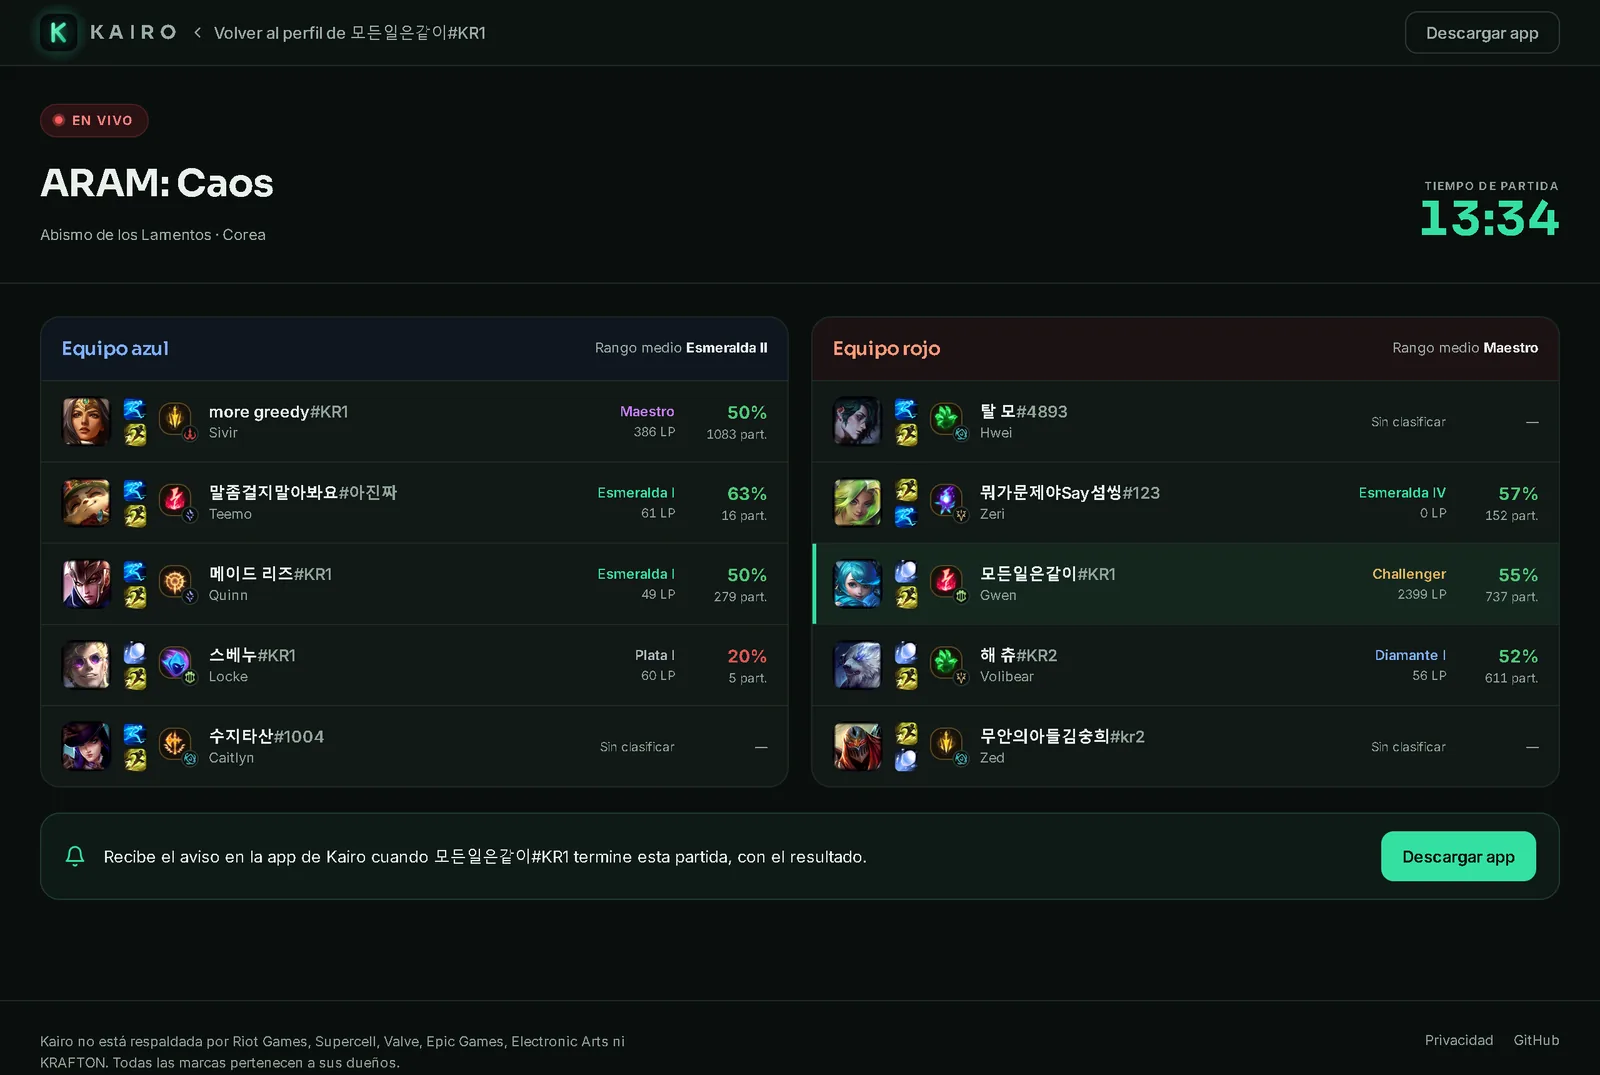
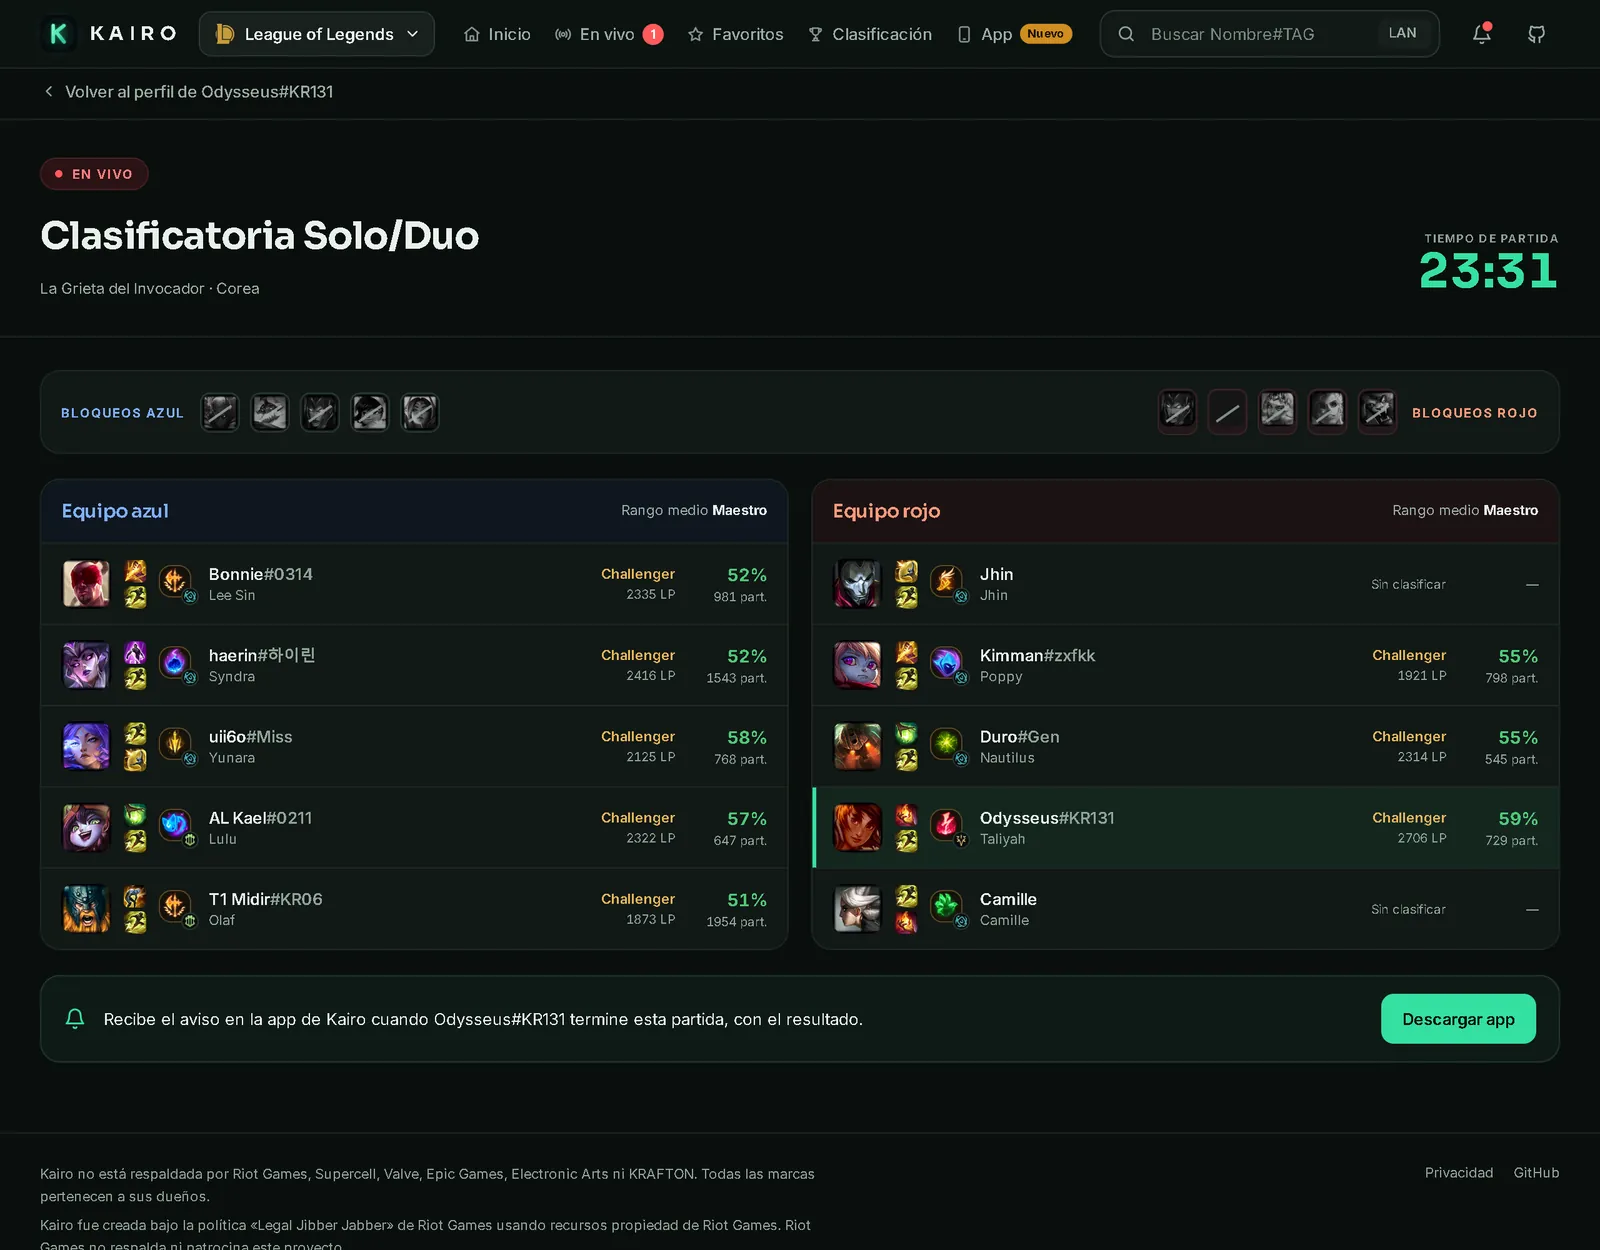
README al día: los 5 juegos con búsqueda, hero por juego, forma reciente, endpoints, arte y permisos, y capturas nuevas

diff --git a/README.md b/README.md
@@ -6,7 +6,7 @@
 
 **Cada partida cuenta.** Ahora también en el navegador.
 
-Busca a cualquier jugador de **League of Legends** y mira su rango, su historial y su **partida en vivo**, estilo op.gg / porofessor.gg. Es la versión web de [Kairo](https://github.com/0scar07/Kairo).
+Busca a cualquier jugador de **League of Legends**, **Brawl Stars**, **Clash Royale**, **Clash of Clans** o **Dota 2** y mira su rango, su historial y, en LoL, su **partida en vivo**. Es la versión web de [Kairo](https://github.com/0scar07/Kairo).
 
 [![Deploy](https://github.com/0scar07/kairo-web/actions/workflows/deploy.yml/badge.svg)](https://github.com/0scar07/kairo-web/actions/workflows/deploy.yml)
 [![CI](https://github.com/0scar07/kairo-web/actions/workflows/ci.yml/badge.svg)](https://github.com/0scar07/kairo-web/actions/workflows/ci.yml)
@@ -17,11 +17,11 @@ Busca a cualquier jugador de **League of Legends** y mira su rango, su historial
 
 ### [Abrir la web: 0scar07.github.io/kairo-web](https://0scar07.github.io/kairo-web/)
 
-[Capturas](#capturas) · [Qué hace](#qué-hace) · [Correr en local](#correr-en-local) · [Despliegue](#despliegue) · [Arquitectura](#arquitectura) · [Hoja de ruta](#hoja-de-ruta)
+[Capturas](#capturas) · [Juegos](#juegos) · [Qué hace](#qué-hace) · [Correr en local](#correr-en-local) · [Despliegue](#despliegue) · [Arquitectura](#arquitectura) · [Arte y permisos](#arte-y-permisos) · [Hoja de ruta](#hoja-de-ruta)
 
 <br />
 
-<img src="docs/screenshots/inicio.webp" alt="Portada de Kairo Web: buscador, favoritos en partida, clasificación y búsquedas recientes" width="100%" />
+<img src="docs/screenshots/inicio.webp" alt="Portada de Kairo Web: logotipo KAIRO con Zoe y Neeko, buscador, carrusel de pósters de los juegos, favoritos en partida y clasificación" width="100%" />
 
 </div>
 
@@ -31,59 +31,87 @@ Busca a cualquier jugador de **League of Legends** y mira su rango, su historial
 
 <table>
   <tr>
-    <td width="75%"><img src="docs/screenshots/perfil.webp" alt="Perfil de Hide on bush#KR1: rango Challenger, campeones e historial de partidas" /></td>
+    <td width="75%"><img src="docs/screenshots/perfil.webp" alt="Perfil de Hide on bush#KR1: rango Challenger, tu última partida, forma reciente con anillo de victorias y racha, e historial" /></td>
     <td width="25%"><img src="docs/screenshots/celular.webp" alt="El mismo perfil en un celular" /></td>
   </tr>
   <tr>
     <td colspan="2"><img src="docs/screenshots/en-vivo.webp" alt="Partida en vivo: equipos azul y rojo con rango, winrate y el jugador buscado resaltado" /></td>
   </tr>
+  <tr>
+    <td colspan="2"><img src="docs/screenshots/juego.webp" alt="Página de Brawl Stars: logotipo BRAWL con Shelly y Poco, buscador por #TAG y pósters" /></td>
+  </tr>
+  <tr>
+    <td colspan="2"><img src="docs/screenshots/perfil-juego.webp" alt="Perfil de Clash Royale: trofeos, historial, Senda de leyendas, mazo actual y últimas batallas" /></td>
+  </tr>
 </table>
 
-<sub>Capturas de la web corriendo contra el backend real de Kairo (Corea, octubre de 2026).</sub>
+<sub>Capturas de la web corriendo contra el backend real de Kairo (octubre de 2026).</sub>
+
+## Juegos
+
+| Juego | En la web | Búsqueda | Fuente de datos |
+|---|---|---|---|
+| League of Legends | Disponible | `Nombre#TAG` + región | API de Riot (vía el backend) |
+| Brawl Stars | Disponible | `#TAG` | API oficial de Supercell |
+| Clash Royale | Disponible | `#TAG` | API oficial de Supercell |
+| Clash of Clans | Disponible | `#TAG` | API oficial de Supercell |
+| Dota 2 | Disponible | Nombre de Steam o ID de cuenta | OpenDota |
+| TFT | Próximamente | — | Riot todavía no habilita la API de TFT para la key de Kairo |
+| Fortnite | Próximamente | — | Falta una key válida de Fortnite-API en el servidor |
+| Apex Legends | Próximamente | — | Falta una key válida de Apex Legends Status en el servidor |
+| PUBG | Próximamente | — | Falta configurar la key de PUBG en el servidor |
+
+Los que aún no tienen búsqueda tienen su página con el motivo exacto y ya están en la [app](https://github.com/0scar07/Kairo).
 
 ## Qué hace
 
 **Header (en todas las páginas)**
-- Logo animado de Kairo y selector de juego con los logos reales de los 9 juegos (LoL disponible; el resto, próximamente).
+- Logo animado de Kairo y selector de juego con los logos reales de los 9 juegos, marcados como *Disponible* o *Próximamente*.
 - Inicio, En vivo (con un contador de favoritos en partida), Favoritos, Clasificación y App.
 - Buscador compacto, una campanita con los favoritos que están jugando ahora y el enlace a GitHub.
 
-**Inicio**
-- Logotipo animado: "KAIRO" de mosaicos con un degradado que corre y destellos, con personajes de varios juegos (Lux, el Bárbaro, Leon y Pengu) bailando delante, siempre en movimiento.
-- Carrusel de pósters de los 9 juegos. En League of Legends, Lux sobresale por encima de la tarjeta (splash de Data Dragon recortado con rembg, `scripts/poster-art.py`) y respira en reposo; al pasar el mouse la tarjeta sube, se inclina y el personaje crece más que el fondo. TFT (Pengu, de Data Dragon) y Brawl Stars, Clash Royale y Clash of Clans (Leon, el Caballero y el Bárbaro, del [Fan Kit oficial de Supercell](https://fankit.supercell.com/)) también tienen personaje, generado con `scripts/poster-cutouts.py`. Fortnite, Apex Legends, Dota 2 y PUBG usan un fondo gráfico propio con su color y su logo, mientras no haya arte con permiso. Se maneja con flechas, teclado y el dedo.
+**Inicio** · `/`
+- **Hero animado**: la palabra "KAIRO" en relieve 3D holográfico (efecto *foil*) con un degradado que corre y destellos, y una pareja de campeones de LoL (Zoe y Neeko) centrada delante, flotando y bailando.
+- **Carrusel de pósters** de los 9 juegos. Lux (LoL), Pengu (TFT), Leon (Brawl Stars), el Caballero (Clash Royale) y el Bárbaro (Clash of Clans) sobresalen por encima de la tarjeta y respiran en reposo; al pasar el mouse la tarjeta sube, se inclina y el personaje crece más que el fondo. Dota 2, Fortnite, Apex y PUBG usan un fondo gráfico propio con su color y su logo. Se maneja con flechas, teclado y el dedo.
 - Buscador grande con región (LAN, LAS, NA, EUW, KR, BR) y `Nombre#TAG`. Autocompleta con tus favoritos y búsquedas recientes, con ícono, Riot ID y rango, y se maneja con el teclado (flechas, Enter, Esc).
 - *Tus favoritos en partida*: qué favoritos están jugando ahora, con campeón, cola y cronómetro. Se revisa cada minuto.
-- Clasificación Challenger real por región (LAN, LAS, NA, EUW, KR, BR) con Riot ID, LP y winrate, y búsquedas recientes.
+- Clasificación Challenger real por región con ícono, Riot ID, LP y winrate, y búsquedas recientes con el logo de su juego.
 
-**Perfil** · `/lol/:region/:Nombre-TAG`
+**Perfil de LoL** · `/lol/:region/:Nombre-TAG`
 - Cabecera con ícono, nivel y el splash del campeón más jugado de fondo. Botones Actualizar y Favorito.
-- Pestañas de cola al estilo op.gg: Todo, Solo/Duo, Flex, ARAM (incluye ARAM: Caos) y Arena.
+- Pestañas de cola: Todo, Solo/Duo, Flex, ARAM (incluye ARAM: Caos) y Arena.
 - Tarjetas de rango Solo/Dúo y flexible con el emblema y el color de la liga, victorias, derrotas, winrate y el *mejor nivel* de los últimos 30 días cuando supera al actual.
-- **Tu última partida**: el splash del campeón de fondo, resultado, K/D/A, CS por minuto, daño (y % del equipo), oro, visión, participación, objetos e insignias (Pentakill, Sin morir, Más daño del equipo, Primera sangre…). Al lado, la **forma reciente**: las últimas 20 partidas como una tira de resultados, la racha actual, el KDA medio y el rol principal.
-- Búsqueda por campeón en la barra del historial.
-- Gráfico de LP de 30 días y campeones de las partidas cargadas.
+- **Tu última partida**: el splash del campeón de fondo, resultado, K/D/A, CS por minuto, daño (y % del equipo), oro, visión, participación, objetos e insignias (Pentakill, Sin morir, Más daño del equipo, Primera sangre…).
+- **Forma reciente**: anillo animado con el % de victorias, la racha actual con una llama (el panel brilla en verde o en rojo según la racha), un ecualizador con las últimas 20 partidas (victorias, derrotas y remakes en gris, con detalle al pasar el mouse), KDA medio, rol principal y campeón estrella.
+- Gráfico de LP de 30 días, campeones de las partidas cargadas y búsqueda por campeón en el historial.
 - Historial con resultado, campeón, hechizos, runas, K/D/A, KDA, CS por minuto, participación, objetos y tiempo. El detalle muestra los 10 jugadores. Botón "Cargar más".
 - Pestañas Campeones (tabla completa) y Maestría (top 10).
-
-**Favoritos** · `/favoritos`
-- Tus favoritos con ícono, región y rango; quién está jugando ahora (campeón, cola y cronómetro), acceso a su partida y botón para quitarlo.
 
 **En vivo** · `/lol/:region/:Nombre-TAG/en-vivo`
 - Cola, mapa y un cronómetro que avanza. Bloqueos de ambos equipos.
 - Equipos azul y rojo con campeón, hechizos, runas, rango, LP, winrate y partidas, más el rango medio de cada equipo. El jugador buscado va resaltado.
 - Si no está jugando, lo dice claro y vuelve a revisar solo.
 
+**Favoritos** · `/favoritos`
+- Tus favoritos con ícono, región y rango; quién está jugando ahora (campeón, cola y cronómetro), acceso a su partida y botón para quitarlo.
+
+**Página de cada juego** · `/juegos/:juego`
+- Su propio hero con la palabra del juego y solo personajes de ese juego: Poro y Jinx chibi (TFT), Shelly y Poco (Brawl Stars), la Mosquetera y la Arquera (Clash Royale), el Mago y la Reina Arquera (Clash of Clans). Dota 2, Fortnite, Apex y PUBG muestran solo la palabra.
+- El buscador del juego, el carrusel de pósters y, en los de Supercell, el **ranking mundial** (top 10 oficial).
+- Lista de todos los juegos con su estado en `/juegos`.
+
+**Perfil de otros juegos** · `/juegos/:juego/jugador/:id`
+- **Brawl Stars**: trofeos, récord, nivel, victorias en 3 contra 3, solo y dúo, brawlers con poder, rango y trofeos, y las últimas batallas con brawler, modo y mapa.
+- **Clash Royale**: trofeos, historial (victorias, derrotas, winrate, tres coronas), Senda de leyendas, mazo actual con el elixir medio y las últimas batallas con el mazo del rival.
+- **Clash of Clans**: ayuntamiento, trofeos y récord, guerra y clan (estrellas, ataques y defensas ganadas, donaciones), clan con su escudo, héroes con su nivel y la base del constructor.
+- **Dota 2**: búsqueda por nombre (con lista para elegir, porque los nombres se repiten) o por ID, medalla y rango, historial, héroes más jugados y partidas recientes.
+- Todos con una tira de resultados recientes y botones Actualizar y Buscar otro.
+
 **En todas las páginas**
 - Los enlaces se comparten y cargan directo. Hay skeletons mientras carga y mensajes claros para "jugador no encontrado", el límite de la API y "Despertando el servidor…" cuando Render está dormido.
-- Funciona en celular: las columnas se apilan y las tablas hacen scroll dentro de su caja.
-- Animaciones sutiles (entrada escalonada, números que cuentan, logo que respira, barras de rol). Se apagan si el sistema pide `prefers-reduced-motion` y solo usan `transform` y `opacity`.
-- Imágenes reales de Data Dragon (campeones, objetos, hechizos, runas e íconos) y emblemas oficiales de rango. Sin emojis.
-
-**Otros juegos** · `/juegos/:juego` y `/juegos/:juego/jugador/:id`
-- Cada juego tiene su página con su propio hero animado (solo personajes de ese juego), el carrusel de pósters y su buscador.
-- **Brawl Stars, Clash Royale y Clash of Clans** (API oficial de Supercell): búsqueda por #TAG, perfil con trofeos y estadísticas, brawlers (BS), mazo actual (CR), héroes y clan (CoC), últimas batallas y el ranking mundial de cada juego.
-- **Dota 2** (OpenDota): búsqueda por nombre de Steam (con lista para elegir) o por ID, medalla y rango, historial, héroes más jugados y partidas recientes.
-- **TFT, Fortnite, Apex Legends y PUBG**: su página dice por qué todavía no tienen búsqueda (TFT: Riot aún no habilita la API para la key; Fortnite, Apex y PUBG: falta una key válida en el servidor). Ya están en la [app](https://github.com/0scar07/Kairo).
+- Funciona en celular desde 390 px: las columnas se apilan y las tablas hacen scroll dentro de su caja, sin scroll horizontal en la página.
+- Animaciones con `transform` y `opacity` (entrada escalonada, números que cuentan, logo que respira, hero, pósters, ecualizador). Se apagan si el sistema pide `prefers-reduced-motion`.
+- Imágenes reales (Data Dragon, emblemas oficiales de rango, assets de Supercell, Steam y OpenDota) e íconos SVG propios. Sin emojis.
 
 ## Correr en local
 
@@ -98,7 +126,7 @@ npm run dev                   # http://localhost:5173/kairo-web/
 | Contra qué backend | `VITE_API_URL` |
 |---|---|
 | Producción (Render) | `https://kairo-api-nqts.onrender.com` |
-| Local (`server/` del repo de Kairo, con su `.env` y `RIOT_API_KEY`) | `http://localhost:3000` |
+| Local (`server/` del repo de Kairo, con su `.env`) | `http://localhost:3000` |
 
 Para el backend local: `cd server && npm install && npm start` en el repo de Kairo. Si cambias `.env`, reinicia `npm run dev`.
 
@@ -112,6 +140,8 @@ Para el backend local: `cd server && npm install && npm start` en el repo de Kai
 | `npm run lint` | ESLint (reglas de React Hooks incluidas) |
 | `npm test` | Pruebas con Vitest (35): caché del cliente, insignias y racha, Riot ID en la URL, rangos, KDA, partidas, filtros de cola, roles y sugerencias |
 | `npm run check` | Lint, pruebas y build: lo mismo que corre la CI |
+
+Los scripts de `scripts/` (Python, con `pillow` y `rembg`) regeneran el arte de los pósters y de los heroes; no hacen falta para correr la web.
 
 ## Despliegue
 
@@ -132,28 +162,33 @@ En los dos casos, el dominio debe estar en `CORS_ORIGINS` del backend (o esa var
 
 ```mermaid
 flowchart LR
-  B[Navegador<br/>Kairo Web] -- "/lol/... ?region=" --> K[Backend de Kairo<br/>Express en Render]
-  K -- "API key (solo en el servidor)" --> R[API de Riot]
-  B -- "imágenes y listas" --> D[Data Dragon<br/>CDN público de Riot]
+  B[Navegador<br/>Kairo Web] -- "/lol, /brawlstars, /clashroyale,<br/>/clashofclans, /dota2" --> K[Backend de Kairo<br/>Express en Render]
+  K -- "API keys (solo en el servidor)" --> R[Riot · Supercell · OpenDota]
+  B -- "imágenes" --> D[Data Dragon · CDNs públicos]
   B <-- "favoritos, recientes, caché" --> L[(localStorage)]
 ```
 
-- **La web solo habla con el backend de Kairo.** Nunca llama a Riot y no tiene ninguna API key. La URL del backend se configura con `VITE_API_URL`.
-- **Caché en el navegador** (`src/api/client.js`): la cuenta se guarda 10 min, invocador y rango 3, IDs de partidas 2, LP, maestría y clasificación 10. Las partidas terminadas se guardan 7 días, compactadas a unos 3 KB cada una (`compactMatch`). La partida en vivo, solo 20 s en memoria. *Actualizar* ignora la caché.
+- **La web solo habla con el backend de Kairo.** Nunca llama a Riot, Supercell ni OpenDota directo y no tiene ninguna API key. La URL del backend se configura con `VITE_API_URL`.
+- **Caché en el navegador** (`src/api/client.js`, en memoria y en `localStorage`): la cuenta de LoL se guarda 10 min, invocador y rango 3, IDs de partidas 2, LP, maestría y clasificación 10. Las partidas terminadas se guardan 7 días, compactadas a unos 3 KB cada una (`compactMatch`). La partida en vivo, solo 20 s en memoria. Los perfiles de Supercell 1 min, sus batallas 30 s y los rankings 10 min; Dota 2 2 min y su lista de héroes 1 día. *Actualizar* ignora la caché, y las respuestas incompletas no se guardan.
 - **Servidor dormido**: si `/health` no contesta en unos segundos, aparece "Despertando el servidor…", se espera hasta 90 s y se reintenta la consulta.
 - **Sin cuenta**: favoritos y recientes viven en el `localStorage` de cada navegador.
+- **Un registro por juego** (`src/games/registry.js`): cómo se reconoce una búsqueda, cómo se carga un jugador y qué muestra la cabecera. Agregar un juego es sumar una entrada ahí y su cuerpo de perfil.
 
 ```
 src/
-  api/         client.js (fetch, caché, errores, servidor dormido) · server.js · lol.js (endpoints)
-  lib/         ddragon.js · lol.js (colas, rangos, KDA, roles, compactMatch) · regions.js · library.js
-               liveFavorites.js (favoritos en partida, compartido por header y portada) · gameLogos.js
-               storage.js · hooks.js · games.js · config.js · *.test.js
+  api/         client.js (fetch, caché, errores, servidor dormido) · server.js · lol.js (endpoints de LoL)
+  games/       registry.js (juegos con perfil) · supercell.js + SupercellProfiles.jsx · dota2.js + Dota2Profile.jsx
+               ui.jsx (tarjetas, tira de resultados y filas de batalla compartidas)
+  lib/         ddragon.js · lol.js (colas, rangos, KDA, roles, racha, compactMatch) · regions.js · library.js
+               games.js (los 9 juegos y su estado) · heroes.js (hero de cada juego) · liveFavorites.js
+               gameLogos.js · storage.js · hooks.js · config.js · *.test.js
   components/  Layout (header, selector de juego, campanita, footer) · SearchForm (autocompletado) · GameLogo
-               CountUp · Icon · ui
-  pages/       Home · Profile (+ profile/: RecentCard, Sidebar, MatchRow) · Live · Favorites · Misc
-  styles/      tokens · global · components · home · profile · live
-public/        logo, favicon, ranks/ (emblemas oficiales), games/ (logos y arte de los pósters, en WebP) y _redirects
+               CountUp · Icon · RoleIcon · ui
+  pages/       Home (+ home/: HeroShowcase, GameCards, posterArt) · Profile (+ profile/: LastMatchCard, Sidebar,
+               MatchRow, useProfile) · Live · Favorites · GamePage · GameProfile · Misc
+  styles/      tokens · global · components · home · profile · live · games
+public/        logo, favicon, ranks/ (emblemas oficiales), games/ (logos y pósters), hero/ (personajes por juego)
+scripts/       poster-art.py · poster-cutouts.py · hero-art.py
 docs/          capturas del README
 ```
 
@@ -172,17 +207,40 @@ La web usa estos endpoints de `server/` del repo de Kairo:
 | `GET /lol/mastery/:puuid?count=10` | Pestaña Maestría |
 | `GET /lol/live/:puuid` | Partida en vivo y favoritos en partida |
 | `GET /lol/leaderboard?region&queue&limit` | Clasificación Challenger: `[{ puuid, gameName, tagLine, leaguePoints, wins, losses }]` |
+| `GET /:juego/player/:tag` | Perfil de Brawl Stars, Clash Royale o Clash of Clans |
+| `GET /:juego/battles/:tag` | Últimas batallas (Brawl Stars y Clash Royale) |
+| `GET /:juego/top?limit` | Ranking mundial de cada juego de Supercell |
+| `GET /dota2/search?q` | Buscar jugadores de Dota 2 por nombre |
+| `GET /dota2/player/:id` | Perfil, medalla, héroes y partidas de Dota 2 |
+| `GET /dota2/heroes` | Nombres e imágenes de los héroes |
 | `GET /health` | Saber si el servidor está despierto |
 
 El parámetro `queue` de `/lol/matches` **todavía no existe** en el backend: mientras tanto, los filtros de cola trabajan sobre las partidas ya cargadas, y cuando el backend lo agregue la web lo usa sola. Si el backend no tuviera `/lol/leaderboard` (por ejemplo, una versión vieja), la clasificación muestra "Disponible pronto" en vez de un error.
 
+## Arte y permisos
+
+Solo se usa arte con permiso explícito para proyectos de fans. Las fuentes están documentadas en `src/pages/home/posterArt.js` y en cada script de `scripts/`.
+
+| Juego | Fuente | Nota |
+|---|---|---|
+| League of Legends y TFT | Data Dragon de Riot | Política «Legal Jibber Jabber» de Riot Games |
+| Brawl Stars, Clash Royale y Clash of Clans | [Fan Kit oficial de Supercell](https://fankit.supercell.com/) (personajes) y el CDN de Brawlify (íconos de brawlers, porque la API no trae imágenes) | Fan Content Policy de Supercell |
+| Dota 2 | CDN de Steam (héroes y avatares) y medallas de OpenDota | Las mismas que usa la app |
+| Fortnite, Apex Legends y PUBG | Sin arte por ahora: fondo gráfico propio con su color y su logo | — |
+
+Los recortes de personajes se hacen con [rembg](https://github.com/danielgatis/rembg) (modelo `isnet-general-use`) y se guardan en WebP. Los avisos legales que piden Riot y Supercell están en el footer.
+
 ## Hoja de ruta
 
 - [x] Clasificación Challenger real (endpoint `/lol/leaderboard`)
+- [x] Brawl Stars, Clash Royale y Clash of Clans con perfil, batallas y ranking mundial
+- [x] Dota 2 con búsqueda por nombre o ID
+- [x] Hero propio para cada juego
+- [ ] TFT (cuando Riot habilite la API para la key de Kairo)
+- [ ] Fortnite, Apex Legends y PUBG (cuando el servidor tenga keys válidas)
 - [ ] Filtros de cola en el servidor (`?queue=` en `/lol/matches`)
 - [ ] Comparar dos jugadores (ya existe en la app)
 - [ ] Rango de temporadas pasadas (la API de Riot no lo ofrece: habría que guardarlo en el backend)
-- [ ] TFT y los demás juegos de Kairo
 - [ ] Más idiomas (la app tiene 5)
 
 ## Licencia
